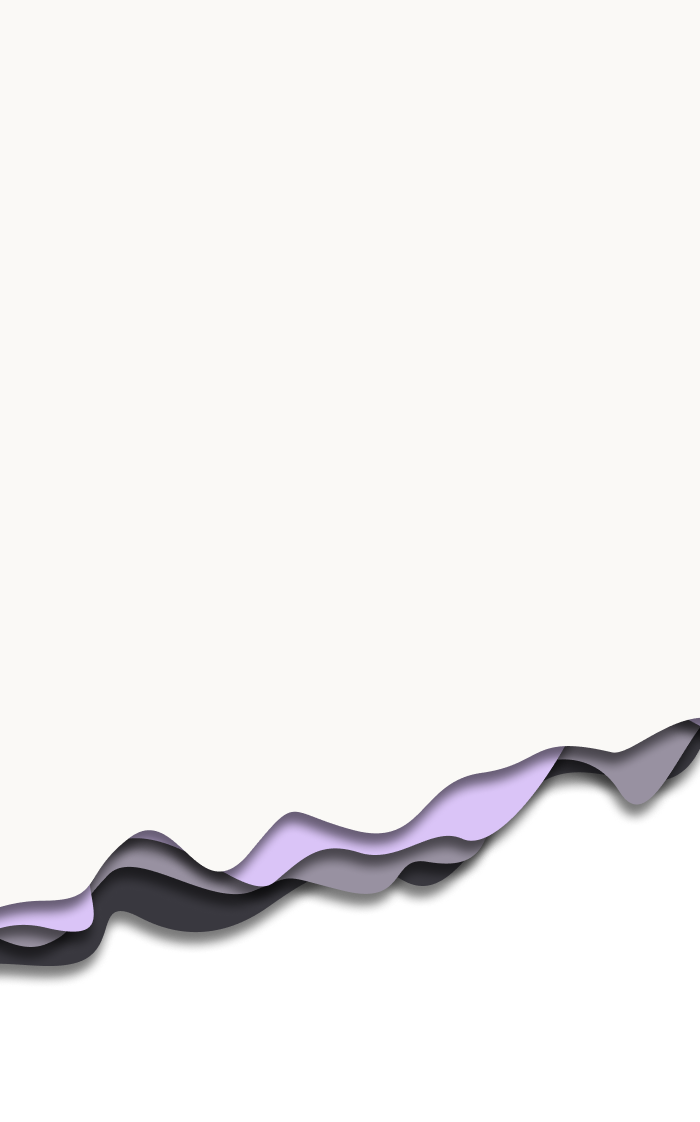
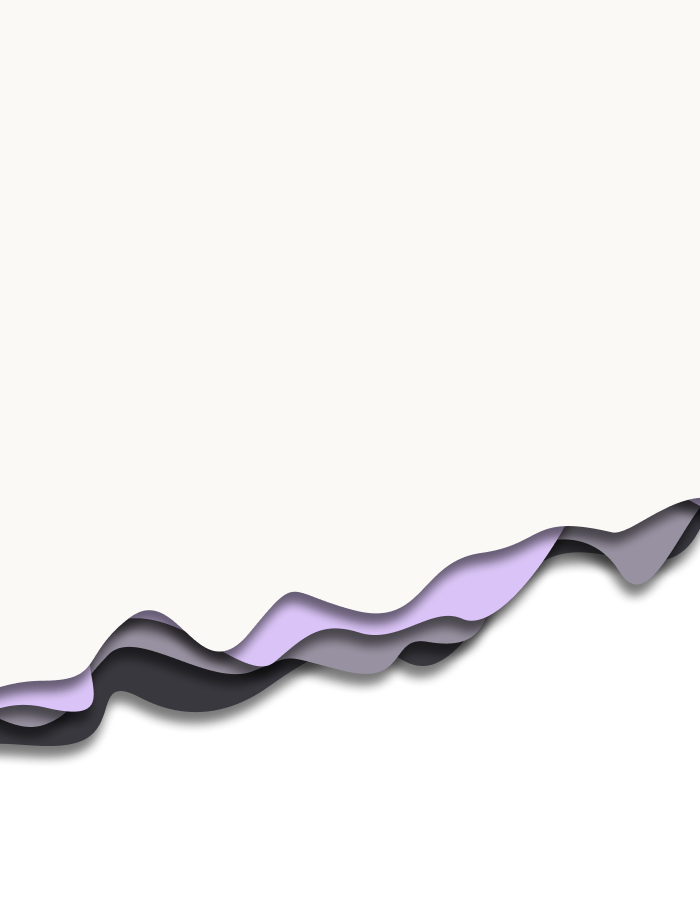
aggiornato animazione product

Changed region(s): [[0.0, 0.5277, 1.0, 0.9002]]

diff --git a/styleproduct.css b/styleproduct.css
@@ -1,7 +1,9 @@
+
+
 .wave-product-1{
     width: 100%;
     height: 990px;
-    background-image: url(img/product/wave-product-1-desktop.png);
+    background-image: url(img/product/wave-product-1-mobile.png);
     background-position-y: top;
     background-position-x: left;
     background-size: cover;
@@ -12,43 +14,63 @@
     height: 519px;
 }
 
-.section-product-second .aircraft-md, .section-product-second .aircraft-lg{
-    top: 400px;
-    transform: rotate(15deg);
-    right: 20px;
+.section-product-second .aircraft-md, .section-product-second .aircraft-lg, .section-product-second .aircraft-sm{
+    transform: rotate(15deg); 
     z-index: 1;
 }
-.section-product-second .aircraft-light-md, .section-product-second .aircraft-light-lg{
-    top: 1753px;
-    right: 260px;
-
+.section-product-second .aircraft-light-md, .section-product-second .aircraft-light-lg, .section-product-second .aircraft-light-sm{
     background-color: var(--white-avocado);
     width: 100%;
-    height: 1560px;
     transform: translateY(-570px);
     z-index: -1;
 
-    clip-path: polygon(100% 0, 0 8%, 0 100%);
 } 
 
+
+
+.wave-product-1{
+    width: 100%;
+    height: 902px;
+    background-image: url(img/product/wave-product-1-mobile.png);
+    transform: translateY(0);
+}
+.section-product-second .aircraft-sm{
+    top: 810px;
+    width: 240px;
+    height: 106px;
+    right: 100px;
+}
+.section-product-second .aircraft-light-sm{
+    top: 1828px;
+    height: 2060px;
+    right: 100px;
+    clip-path: polygon(100% 0, 0 2%, 0 100%);
+}
+.section-product-second .sl-product-second-p1{
+    max-width: 60%;
+}
+.section-product-second .sl-product-second-p2{
+    max-width: 50%;
+}
 
 @media (min-width: 576px) {
     .wave-product-1{
         width: 100%;
-        height: 1120px;
+        height: 902px;
         background-image: url(img/product/wave-product-1-mobile.png);
-        background-position-y: top;
-        background-position-x: left;
-        transform: translateY(-160px);
+        transform: translateY(0);
     }
-    .section-product-second .aircraft-md{
-        top: 660px;
-        width: 280px;
-        height: 124px;
+    .section-product-second .aircraft-sm{
+        top: 810px;
+        width: 240px;
+        height: 106px;
+        right: 100px;
     }
-    .section-product-second .aircraft-light-md{
-        top: 1738px;
-        right: 170px;
+    .section-product-second .aircraft-light-sm{
+        top: 1828px;
+        height: 2060px;
+        right: 100px;
+        clip-path: polygon(100% 0, 0 2%, 0 100%);
     }
     .section-product-second .sl-product-second-p1{
         max-width: 100%;
@@ -61,18 +83,19 @@
     .wave-product-1{
         height: 990px;
         background-image: url(img/product/wave-product-1-desktop.png);
-        background-position-y: top;
-        background-position-x: left;
         transform: translateY(-160px);
     }
     .section-product-second .aircraft-md{
         top: 660px;
         width: 280px;
         height: 124px;
+        right: 20px;
     }
     .section-product-second .aircraft-light-md{
-        top: 1738px;
+        top: 1828px;
         right: 170px;
+        height: 1560px;
+        clip-path: polygon(100% 0, 0 4.5%, 0 86%);
     }
     .section-product-second .sl-product-second-p1{
         max-width: 100%;
@@ -91,10 +114,12 @@
         top: 420px;
         width: 280px;
         height: 124px;
+        right: 0px;
     }
     .section-product-second .aircraft-light-lg{
         top: 1738px;
         right: 170px;
+        height: 1560px;
         clip-path: polygon(100% 0, 0 5%, 0 70%);
     }
     .section-product-second .sl-product-second-p1{

diff --git a/style.css b/style.css
@@ -583,7 +583,7 @@ Quindi mettiamo border radius 16px per desktop, 8px per mobile*/
 
 
 /*button genral settings*/
-.sl-btn, .sl-btn-bw-white {
+.sl-btn, .sl-btn-bw-white, .sl-btn-bw-dark {
     display: flex;
     gap: 8px;
     margin: 0 0;
@@ -593,10 +593,10 @@ Quindi mettiamo border radius 16px per desktop, 8px per mobile*/
     width: fit-content;
     text-decoration: none;
 }
-.sl-btn img, .sl-btn-bw-white img{
+.sl-btn img, .sl-btn-bw-white img, .sl-btn-bw-dark img{
     padding-top: 3px;
 }
-.sl-btn::after, .sl-btn-bw-white::after {
+.sl-btn::after, .sl-btn-bw-white::after, .sl-btn-bw-dark::after {
     transition: all 0.40s cubic-bezier(.48,.47,.68,.67);
     content: '';
     width:  40px;
@@ -607,7 +607,7 @@ Quindi mettiamo border radius 16px per desktop, 8px per mobile*/
     z-index: 0;
     border: solid 1px var(--black-banana);
 }
-.sl-btn .sl-btn-text, .sl-btn-bw-white .sl-btn-text {
+.sl-btn .sl-btn-text, .sl-btn-bw-white .sl-btn-text, .sl-btn-bw-dark .sl-btn-text {
     display: inline-block;
     height: 100%;
     margin-right: 16px;
@@ -615,28 +615,28 @@ Quindi mettiamo border radius 16px per desktop, 8px per mobile*/
     position: relative;
     z-index: 2;
 }
-.sl-btn .sl-btn-icon, .sl-btn-bw-white .sl-btn-icon{
+.sl-btn .sl-btn-icon, .sl-btn-bw-white .sl-btn-icon, .sl-btn-bw-dark .sl-btn-icon{
     height: 100%;
     display: inline-flex;
     align-items: center;
     position: relative;
     z-index: 2;
 }
-.sl-btn:hover, .sl-btn-bw-white:hover{
+.sl-btn:hover, .sl-btn-bw-white:hover, .sl-btn-bw-dark:hover{
     transform: translateX(4px);
     transform: translatey(-4px);
     transition: all 0.40s cubic-bezier(.48,.47,.68,.67);
 }
-.sl-btn:hover::after, .sl-btn-bw-white:hover::after{
+.sl-btn:hover::after, .sl-btn-bw-white:hover::after, .sl-btn-bw-dark:hover::after{
     box-shadow: 4px 4px 0px var(--black-banana);
     width: 100%;
 }
-.sl-btn:focus, .sl-btn-bw-white:focus{
+.sl-btn:focus, .sl-btn-bw-white:focus, .sl-btn-bw-dark:focus{
     transform: translateX(2px);
     transform: translatey(-2px);
     transition: all 0.40s cubic-bezier(.48,.47,.68,.67);
 }
-.sl-btn:focus::after, .sl-btn-bw-white:focus::after {
+.sl-btn:focus::after, .sl-btn-bw-white:focus::after, .sl-btn-bw-dark:focus::after {
     box-shadow: 2px 2px 0px var(--black-banana);
     width: 100%;
 }
@@ -652,6 +652,19 @@ Quindi mettiamo border radius 16px per desktop, 8px per mobile*/
 .sl-btn-bw-white:hover  {
     color: var(--black-strawberry);
 }
+/*button bw dark*/
+.sl-btn-bw-dark{
+    color: var(--black-strawberry);
+}
+.sl-btn-bw-dark::after {
+    background: var(--black-strawberry);
+    transform: skew(-15deg);
+    border-radius: 0;
+}
+.sl-btn-bw-dark:hover  {
+    color: var(--white-avocado);
+}
+
 /*button orange*/
 .sl-btn{
     color: var(--black-strawberry);

diff --git a/script.js b/script.js
@@ -26,24 +26,54 @@ document.addEventListener("DOMContentLoaded", (event) => {
 
         
         //gsap animation for aircraft in product page
+        let tlSm = gsap.timeline({
+            scrollTrigger: {
+                trigger: ".aircraft-sm",
+                start: "100 center" ,
+                end: "800 center" ,
+                scrub: true,
+                markers: false,
+                //toggleActions: "play pause pause pause"
+            }
+        })
+        tlSm.to('.aircraft-sm', {
+            y: 380,
+            x: 130,
+            rotation: 45
+        })
+        .from('.aircraft-light-sm', {
+            opacity: 0
+        })
+        .to('.aircraft-text', {
+            color: "#000000"
+        }, "<" )
+        .to('.aircraft-btn-text', {
+            color: "#000000"
+        }, "<" )
+
+        
+        
         let tlMd = gsap.timeline({
             scrollTrigger: {
                 trigger: ".aircraft-md",
-                start: "400 center" ,
-                end: "1200 center" ,
+                start: "200 center" ,
+                end: "950 center" ,
                 scrub: true,
                 markers: true,
                 //toggleActions: "play pause pause pause"
             }
         })
         tlMd.to('.aircraft-md', {
-            y: 430,
+            y: 510,
             rotation: 45
         })
         .from('.aircraft-light-md', {
             opacity: 0
         })
         .to('.aircraft-text', {
+            color: "#000000"
+        }, "<" )
+        .to('.aircraft-btn-text', {
             color: "#000000"
         }, "<" )
         
@@ -53,7 +83,7 @@ document.addEventListener("DOMContentLoaded", (event) => {
                 start: "400 center" ,
                 end: "1200 center" ,
                 scrub: true,
-                markers: true,
+                markers: false,
                 //toggleActions: "play pause pause pause"
             }
         })
@@ -65,6 +95,9 @@ document.addEventListener("DOMContentLoaded", (event) => {
             opacity: 0
         })
         .to('.aircraft-text', {
+            color: "#000000"
+        }, "<" )
+        .to('.aircraft-btn-text', {
             color: "#000000"
         }, "<" )
 

diff --git a/product.html b/product.html
@@ -29,7 +29,7 @@
 
   </head>
   
-  <body class="sl-bg-strawberry">
+  <body class="sl-product sl-bg-strawberry">
 
     <section class="section-product-first container-fluid  sl-pt-first-div position-relative">
       <div class="position-absolute sl-pt-first-div top-0 sl-bg-avocado w-100 "></div>
@@ -52,8 +52,11 @@
     </section>
 
     <section class="section-product-second container-fluid">
-      <div class="aircraft-light-md d-lg-none position-absolute "></div>
-      <img class="aircraft-md d-lg-none position-absolute" src="img/product/aircraft.png" alt="">
+      <div class="aircraft-light-sm d-md-none position-absolute "></div>
+      <img class="aircraft-sm d-md-none position-absolute" src="img/product/aircraft.png" alt="">
+
+      <div class="aircraft-light-md d-none d-md-block d-lg-none position-absolute "></div>
+      <img class="aircraft-md d-none d-md-block d-lg-none position-absolute" src="img/product/aircraft.png" alt="">
 
       <div class="aircraft-light-lg d-none d-lg-block position-absolute "></div>
       <img class="aircraft-lg d-none d-lg-block position-absolute" src="img/product/aircraft.png" alt="">
@@ -68,8 +71,8 @@
           <p class="aircraft-text sl-product-second-p2 text-style-body-copy sl-color-avocado">Ci impegniamo a creare calze che non siano solo accessori, ma veri e propri strumenti di espressione individuale. Un mix di design superbo, funzionalità avanzate ed eccentricità cosmica.</p>
         
           <div class="pt-4">
-            <a href="" class="sl-btn-bw-white">
-              <span class="sl-btn-text text-style-button">Vai all’Emporioum</span>
+            <a href="" class=" sl-btn-bw-white">
+              <span class="aircraft-btn-text sl-btn-text text-style-button">Vai all’Emporioum</span>
               <span class="sl-btn-icon"><img src="img/icon/Arrow-right.svg" alt=""></span>
             </a>
           </div>
